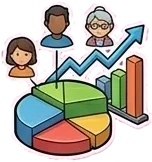
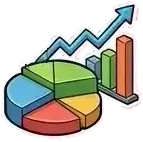
Fixes

diff --git a/src/simulation/planet/claimBilling.ts b/src/simulation/planet/claimBilling.ts
@@ -77,8 +77,8 @@ export function claimBillingTick(agents: Map<string, Agent>, planet: Planet, tic
                 continue;
             }
             if (entry.regenerationRate > 0) {
-                totalCost += entry.tenantCostInCoins;
-                totalUnits += entry.maximumCapacity;
+                totalCost += entry.costPerTick;
+                totalUnits += entry.quantity;
             } else {
                 totalCost += entry.tenantCostInCoins;
                 totalUnits += entry.maximumCapacity;

diff --git a/src/simulation/market/agentBuying.test.ts b/src/simulation/market/agentBuying.test.ts
@@ -201,7 +201,7 @@ describe('automaticPricing — buy side', () => {
     it('raises bid price when previous tick was partially filled', () => {
         // Use a coal price below the production-cost ceiling so the ceiling spring doesn't
         // suppress the fill-rate adjustment. The ceiling is coalMine template cost (≈0.1/unit)
-        // × BID_OFFER_MAX_COST_MULTIPLIER (10) = 1.0. Coal at 0.4 is safely below that.
+        // × BID_OFFER_MAX_COST_MULTIPLIER (6) = 0.6. Coal at 0.4 is safely below that.
         planet.marketPrices[COAL] = 0.4;
         planet.marketPrices[steelResourceType.name] = 8.0;
 